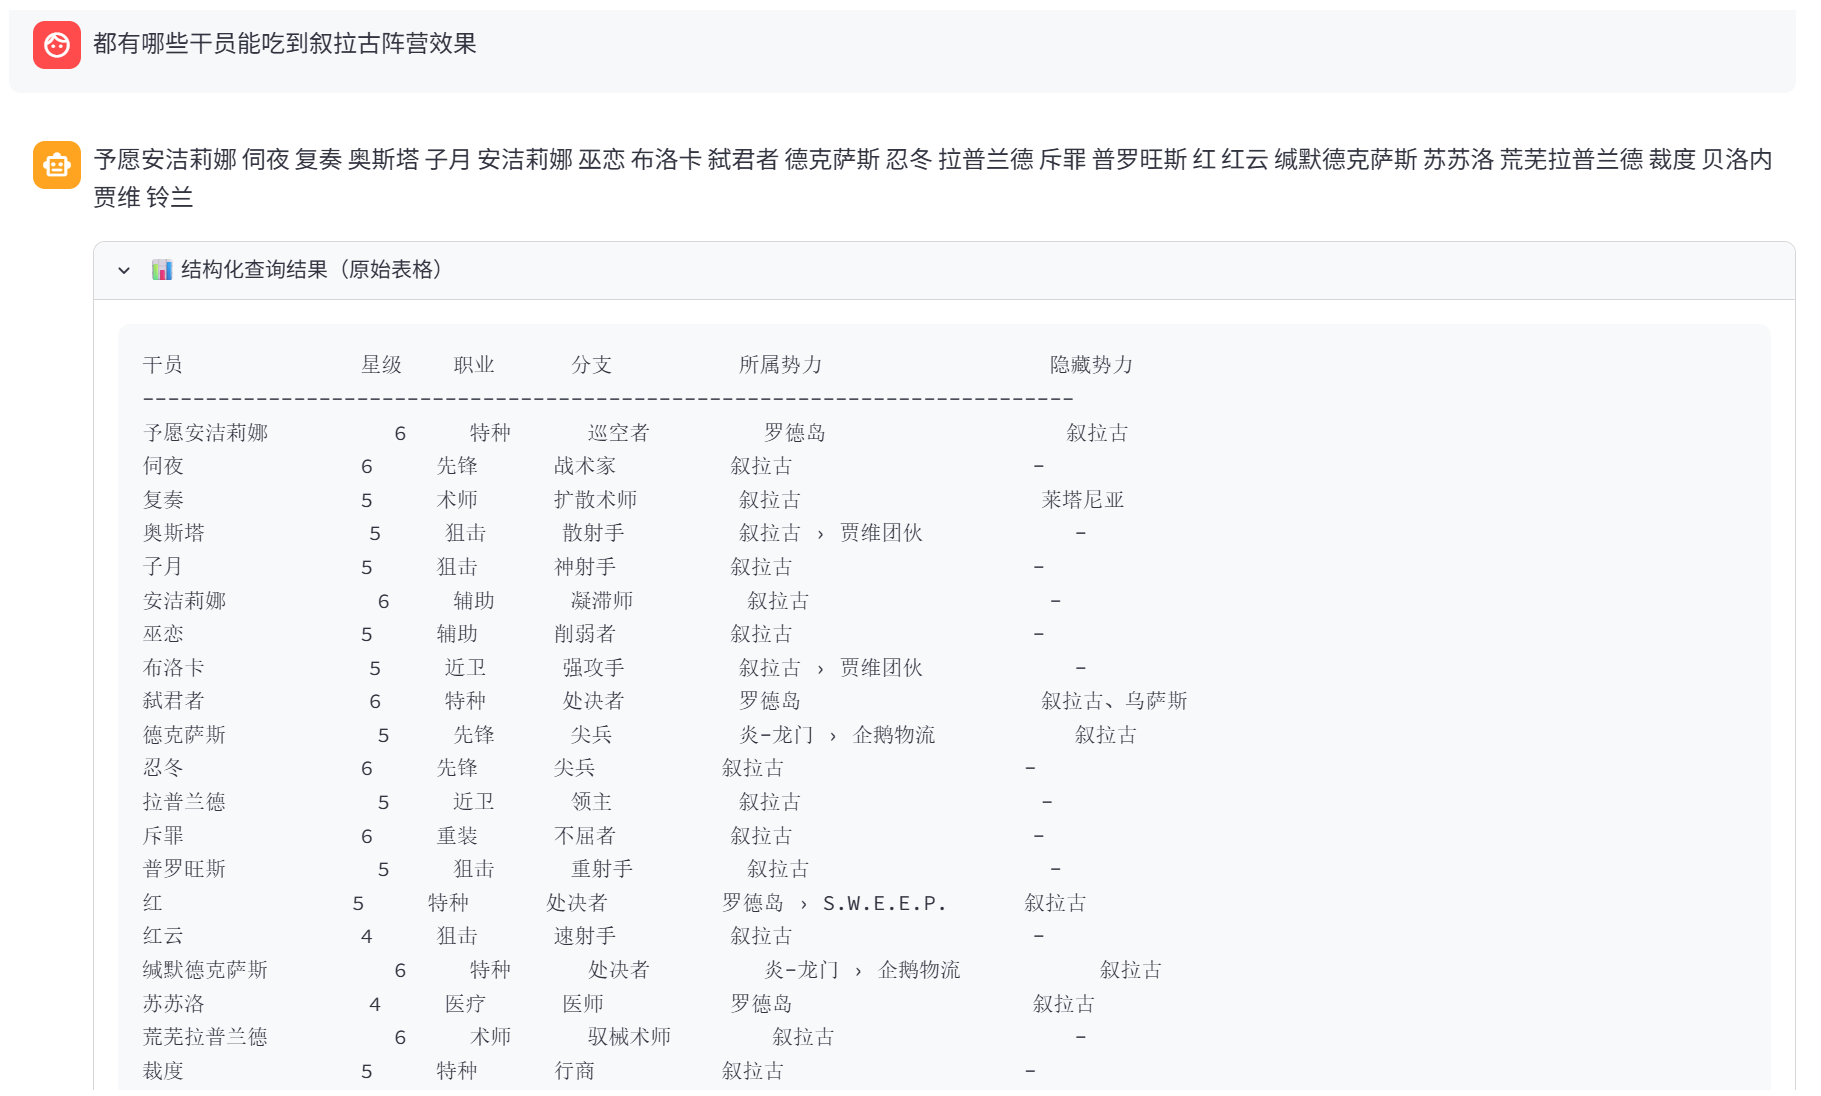
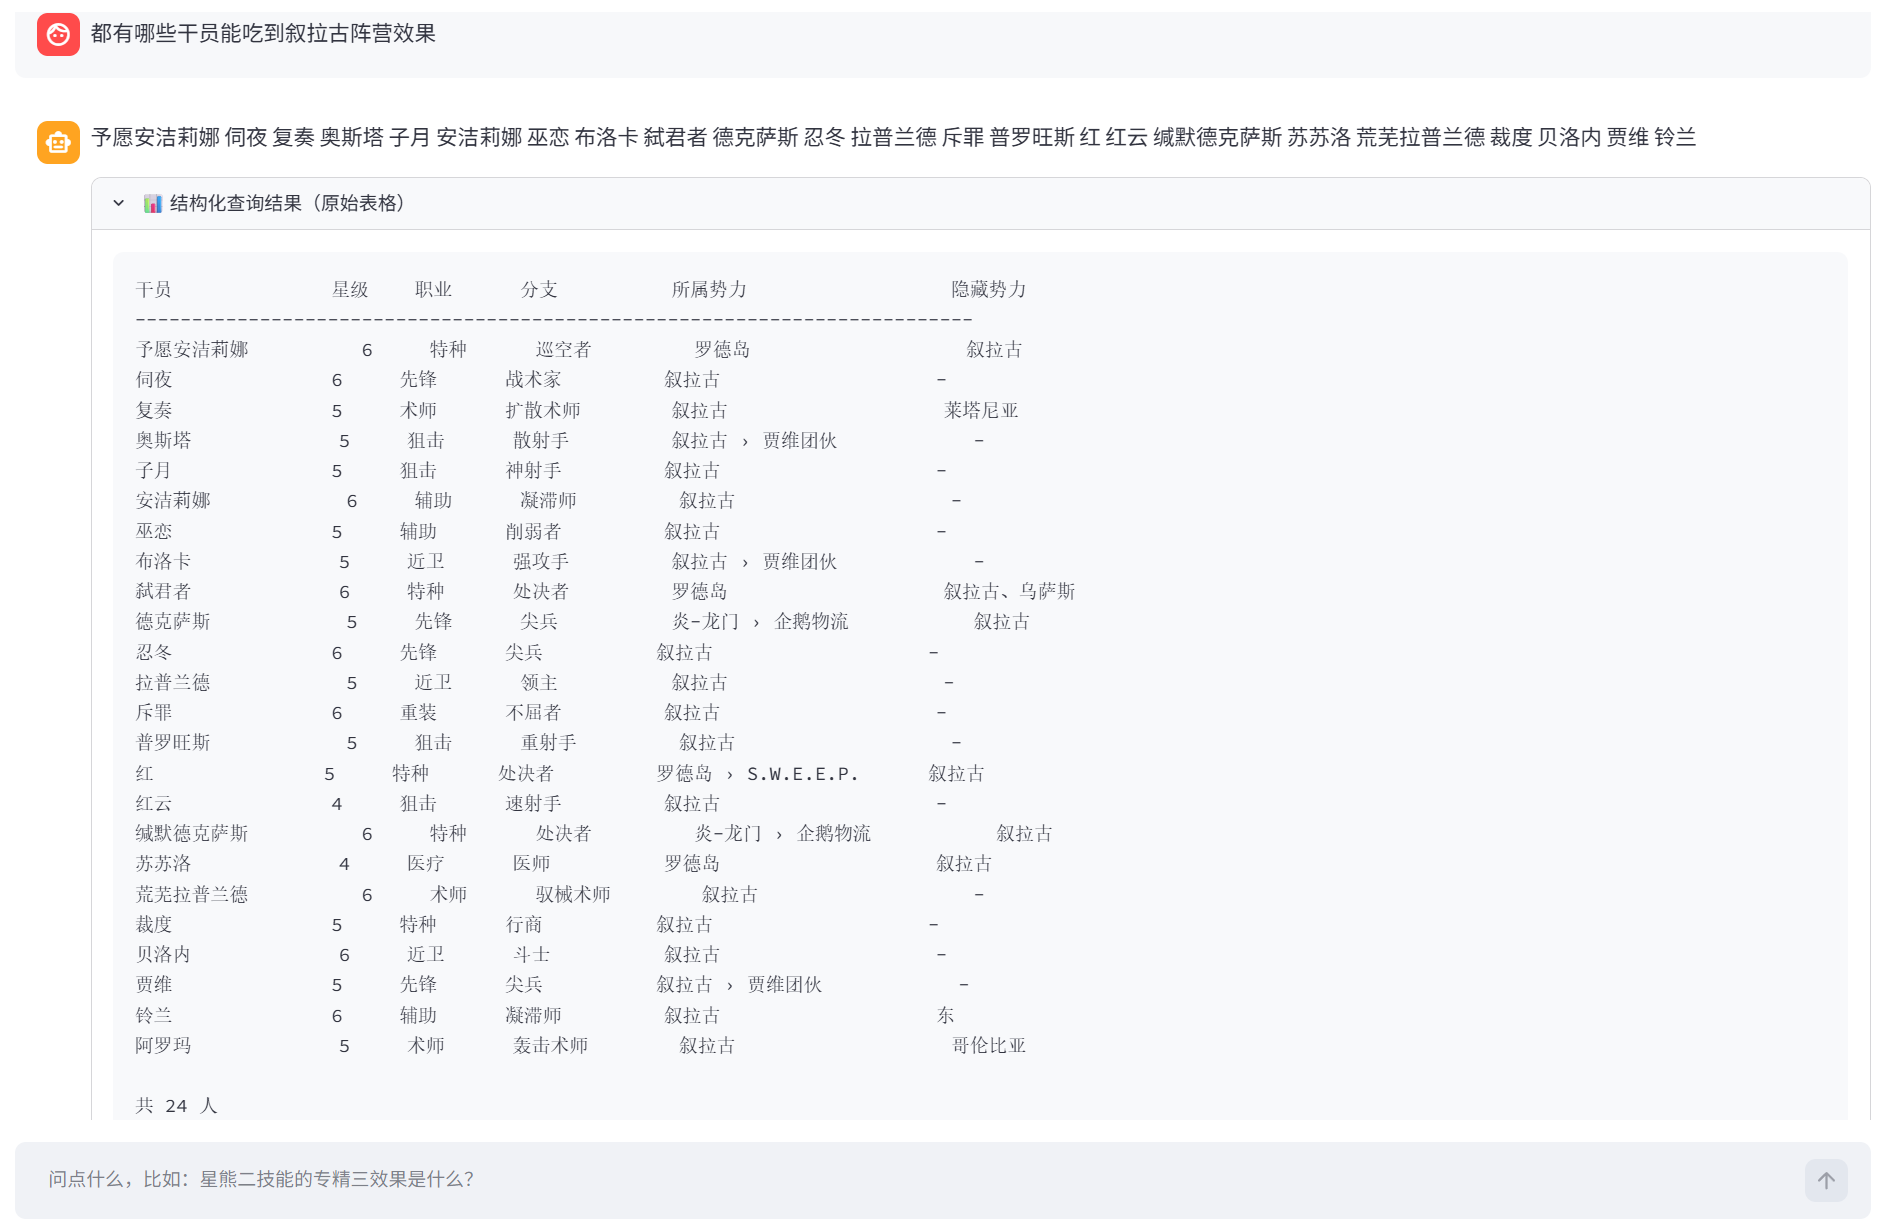
README: 替换为完整版隐藏势力截图，补充多势力情况说明

diff --git a/README.md b/README.md
@@ -16,10 +16,12 @@
 
 ![结构化查询](docs/01_结构化查询.png)
 
-问「都有哪些干员能吃到叙拉古阵营效果」——这张表里能看到隐藏势力的作用：
-`予愿安洁莉娜`的所属势力是罗德岛，隐藏势力是叙拉古，所以她同时吃得到罗德岛和叙拉古的加成；
-`荒芜拉普兰德`是纯叙拉古。这两个角色分工不同又都强，很容易编进同一支队伍，
-配队时就需要知道谁能吃到谁的效果：
+问「都有哪些干员能吃到叙拉古阵营效果」——这张图里能看到隐藏势力的作用：
+`予愿安洁莉娜`的所属势力是罗德岛，但隐藏势力是叙拉古，所以她可以同时吃得到罗德岛和叙拉古的加成；
+而`荒芜拉普兰德`是仅有叙拉古阵营同时可以提供叙拉古阵营buff。这两个角色分工不同而且都很强，因此很容易编进同一支队伍，
+而配队时就需要知道谁能吃到谁的效果。表里还能看到另一类情况：
+`复奏`的隐藏势力是莱塔尼亚、`铃兰`是东、`阿罗玛`是哥伦比亚，
+他们所属势力都在叙拉古，但额外还算一个别的势力：
 
 ![隐藏势力加成](docs/02_隐藏势力加成.png)
 
